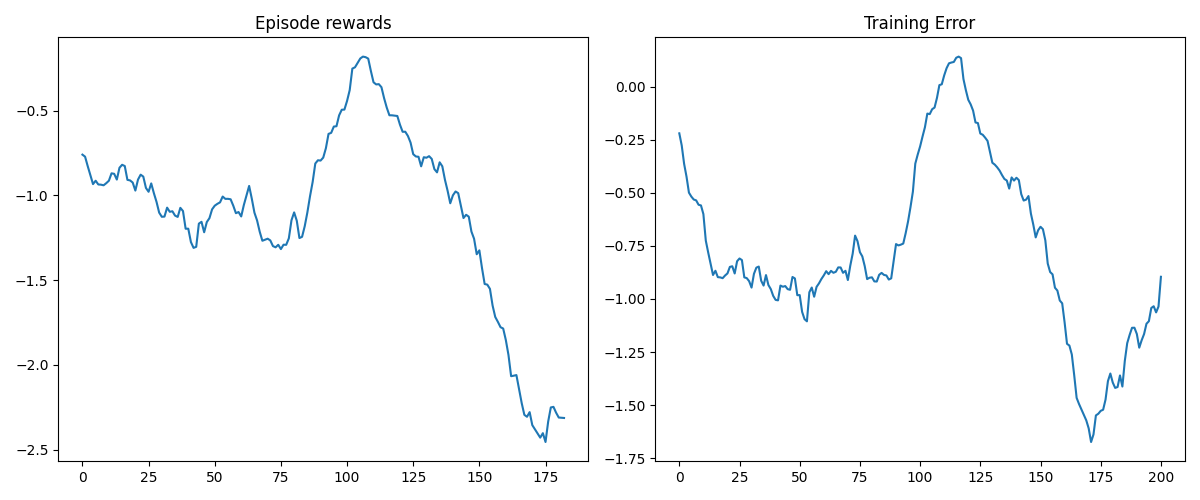
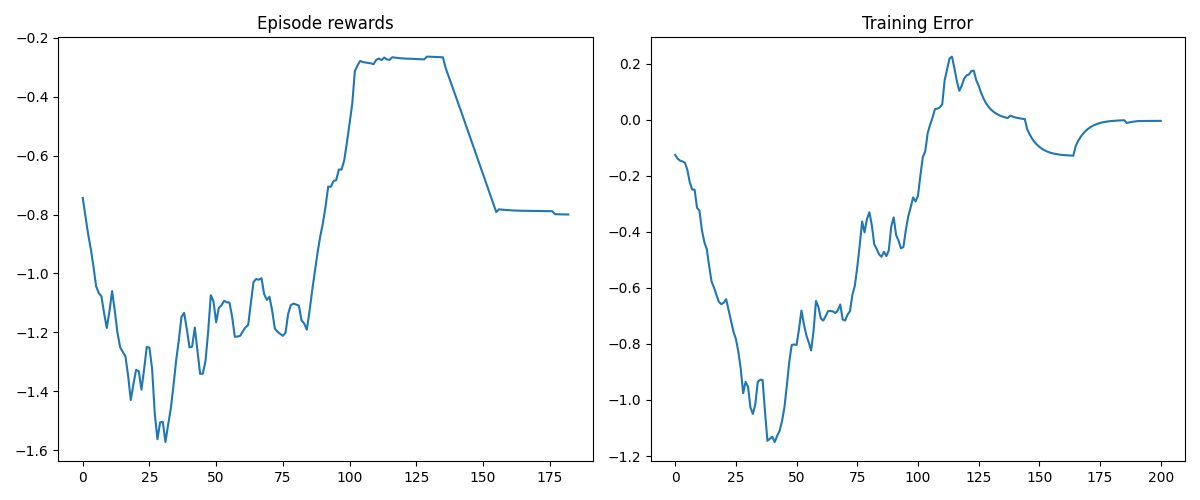
update

diff --git a/forecast/container_autoscaling_env.py b/forecast/container_autoscaling_env.py
@@ -14,7 +14,7 @@ register(
     entry_point="container_autoscaling_env:ContainerAutoscalingEnv",
 )
 
-STEPS_PER_EPISODE = 100
+STEPS_PER_EPISODE = 50
 
 
 class Action(Enum):

diff --git a/README.md b/README.md
@@ -41,5 +41,11 @@ just copy-ssh-key
 eval $(ssh-agent)
 ssh-add ~/.ssh/storm
 
+ssh -i .ssh/storm 10.148.0.22
+
+ansible supervisor -i inventory -m ping
+
+ansible all -i inventory.ini -m ansible.builtin.copy -a "src=./docker-compose.cloud.supervisor.yml dest=~/thesis-storm/docker-compose.cloud.supervisor.yml"
+ansible all -i inventory.ini -m community.docker.docker_compose_v2 -a "project_src=~/thesis-storm/docker-compose.cloud.supervisor.yml state=restarted"
 
 ```
